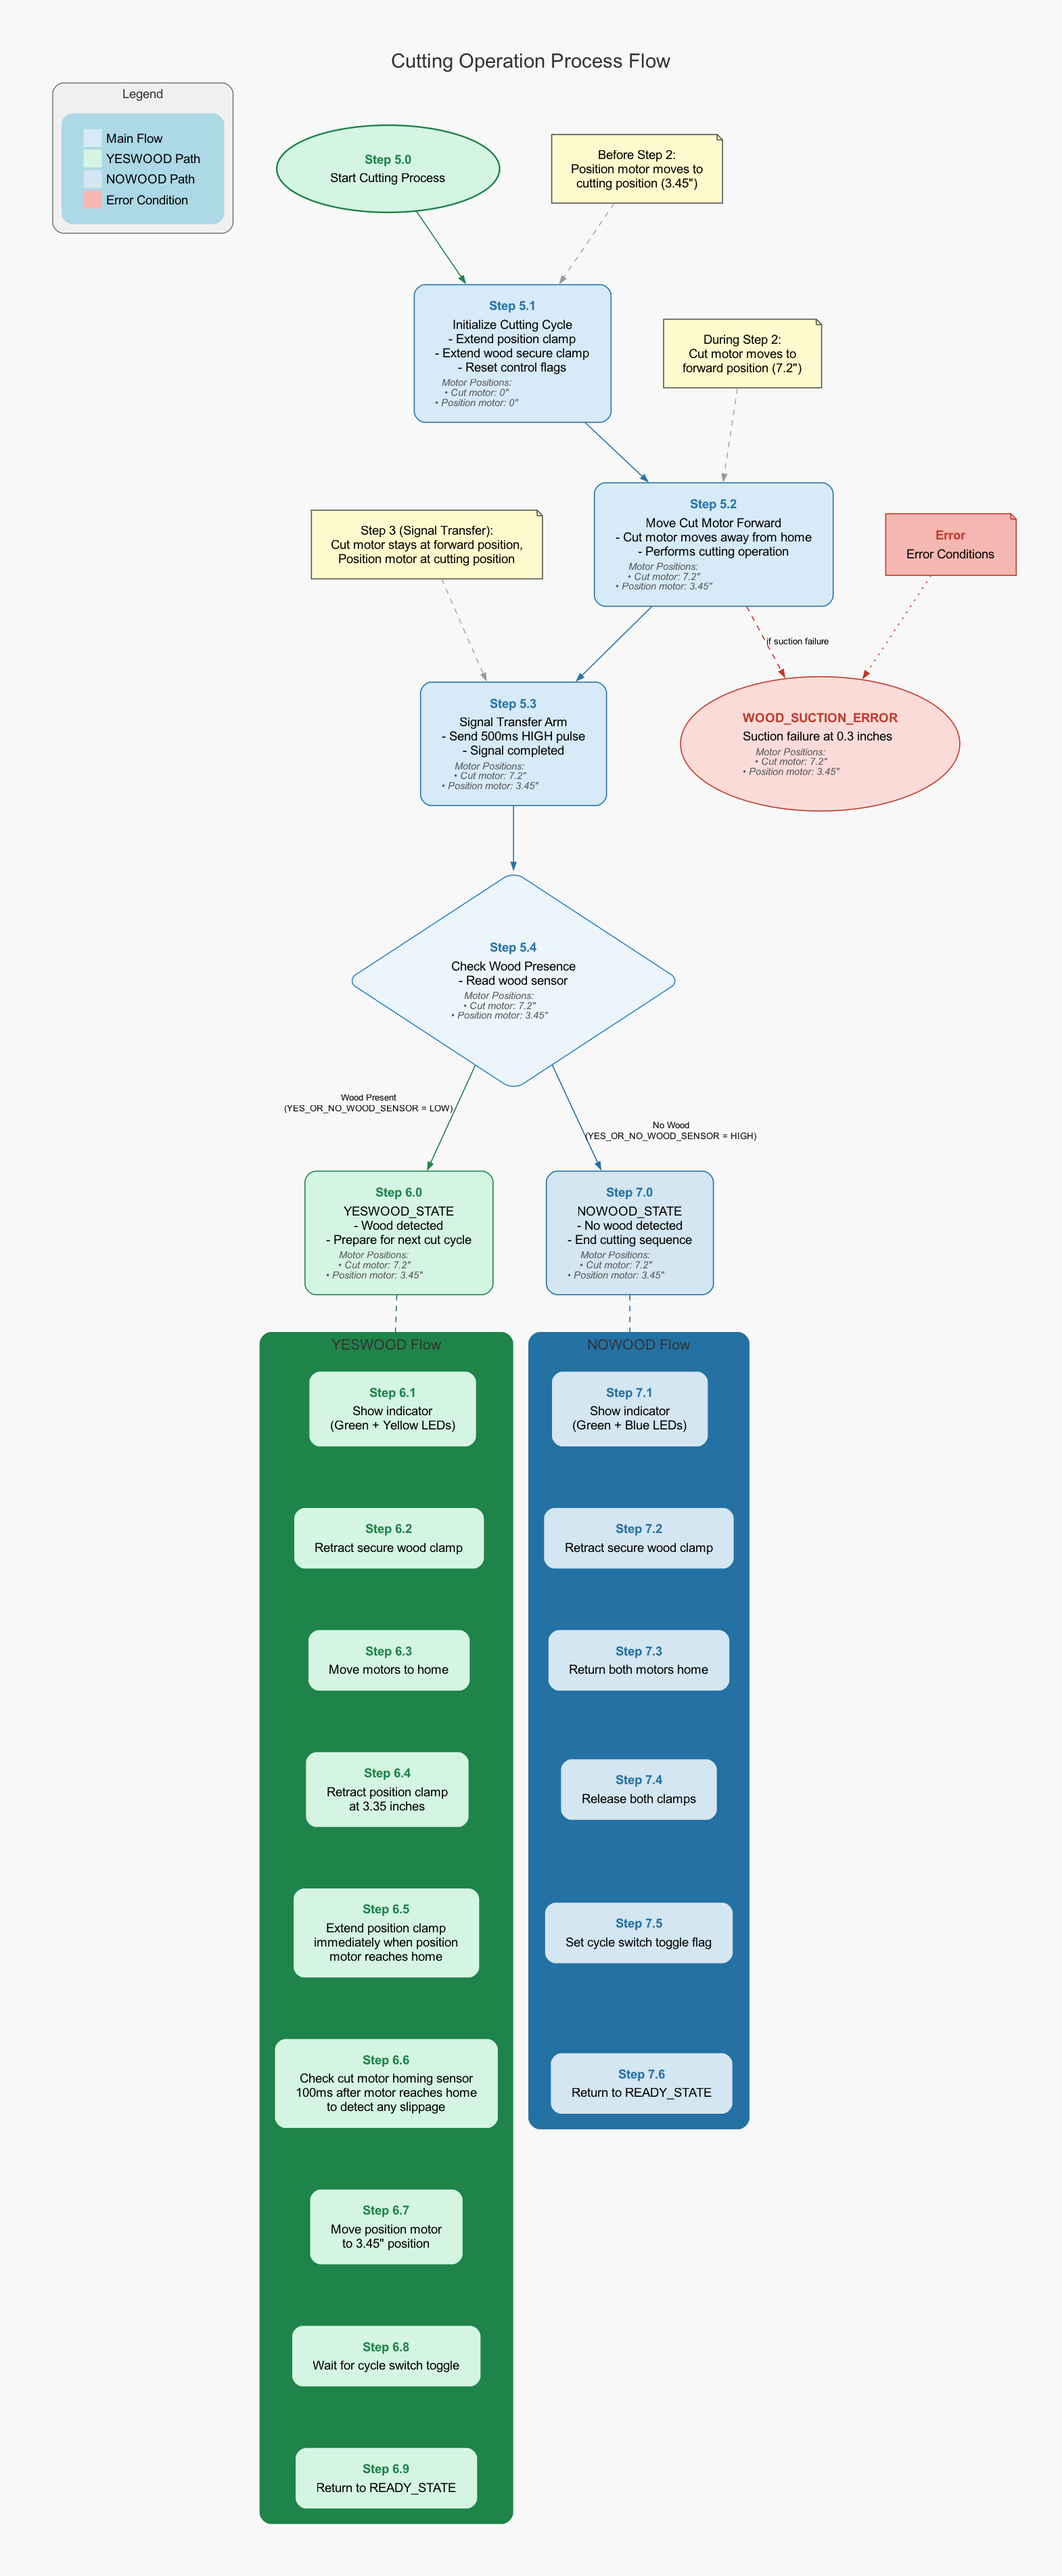
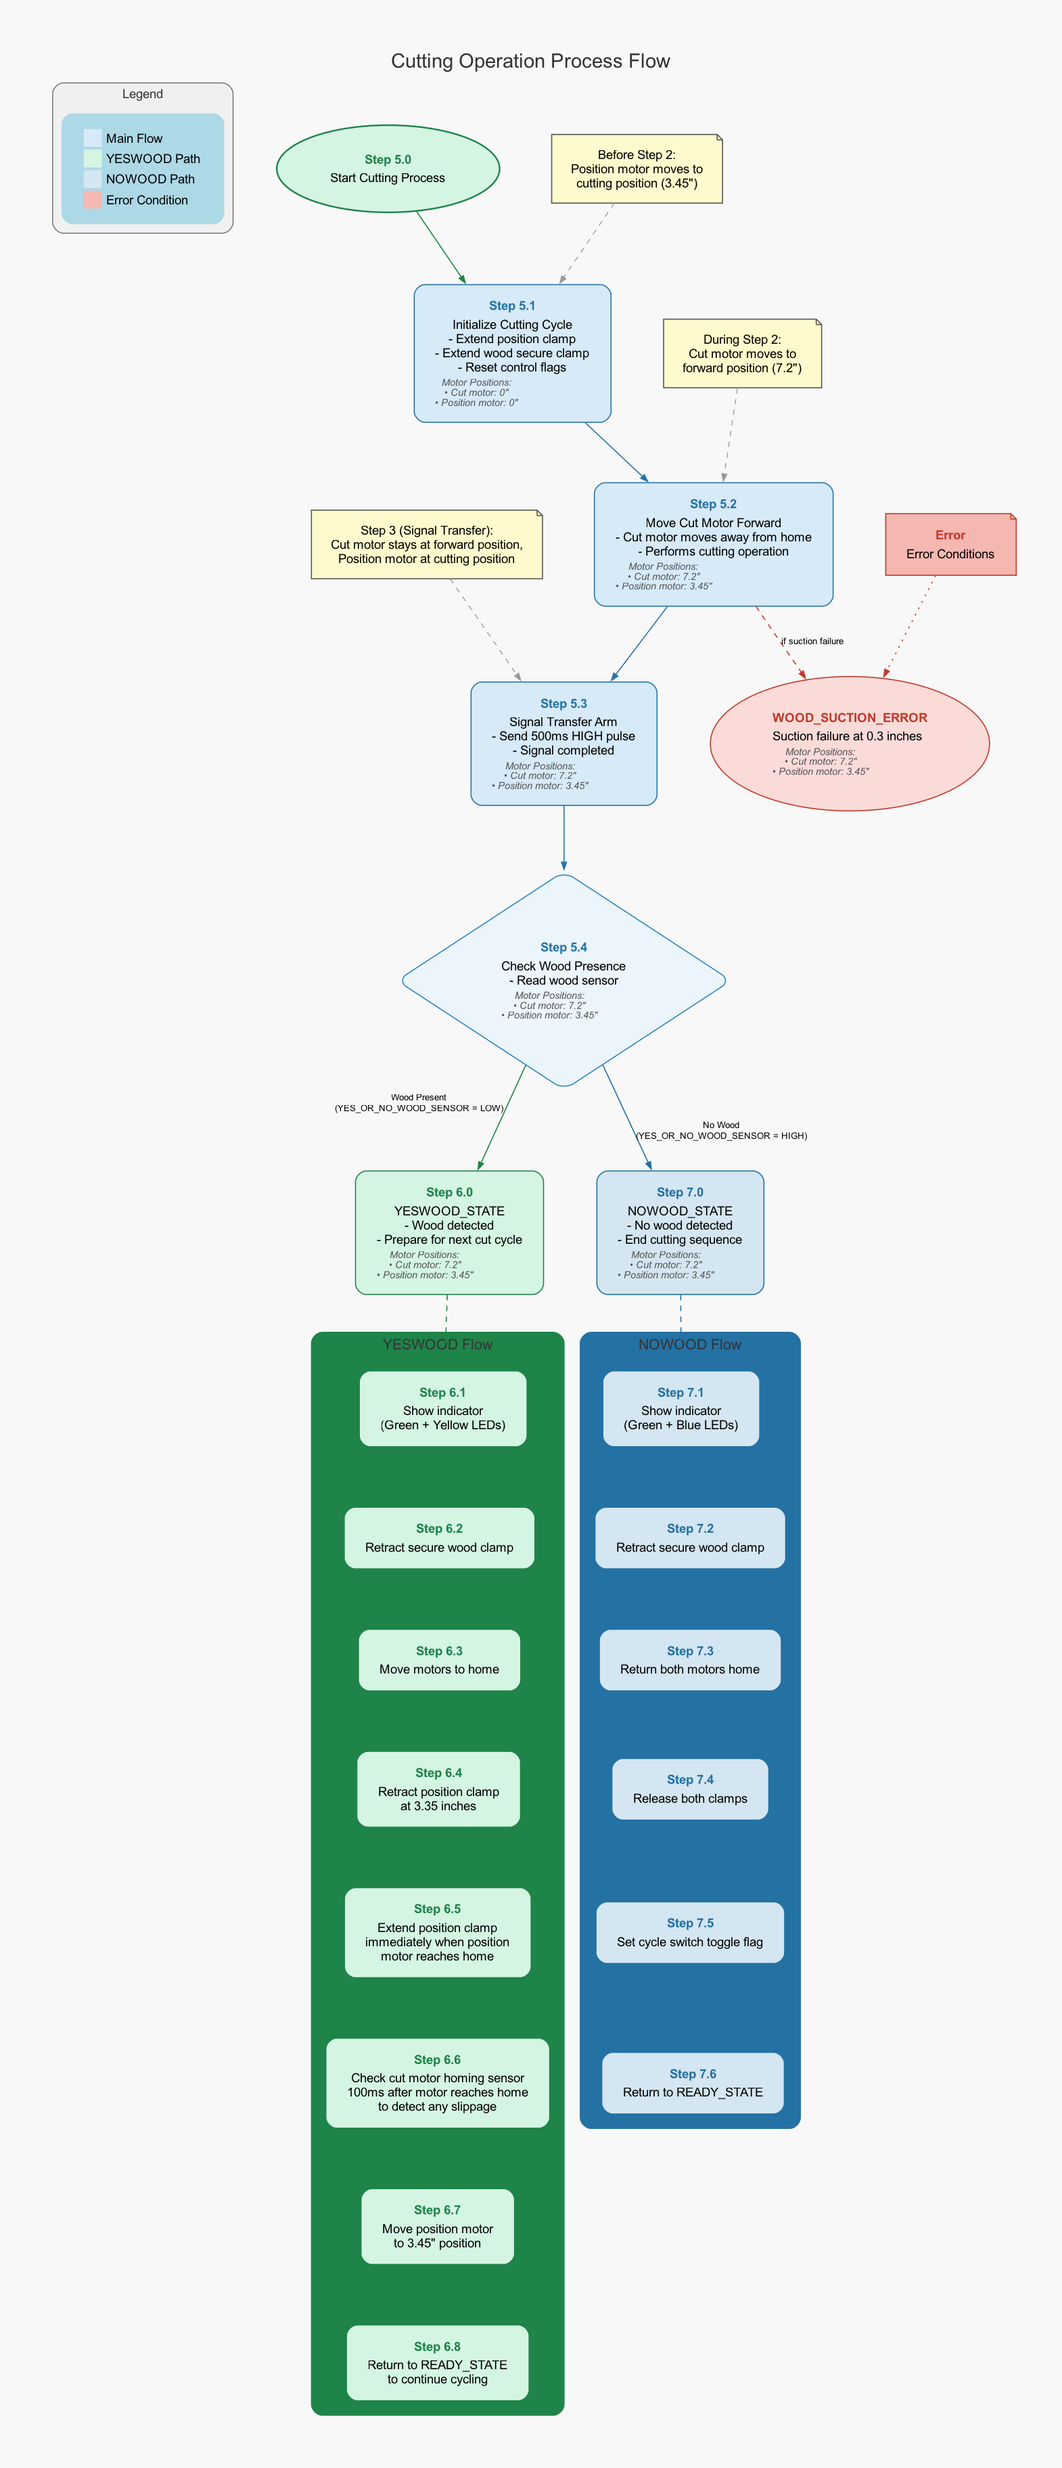
Updated YESWOOD state to allow continuous operation without cycle switch toggle, added contrast comments to NOWOOD state

Changed region(s): [[0.2185, 0.3718, 0.7803, 0.9915], [0.2497, 0.0, 0.9675, 0.3408], [0.0624, 0.031, 0.2185, 0.093]]

diff --git a/src/operations/12_YesWood.cpp b/src/operations/12_YesWood.cpp
@@ -3,7 +3,6 @@
 #include "../../include/operations/11_Cutting.h"
 
 // Global variables for this module
-static unsigned long yesWoodWaitTime = 0;
 static unsigned long cutMotorHomeCheckTimer = 0;
 
 // Handle yes wood state - indicates wood is present after cutting
@@ -83,7 +82,7 @@ void handleYesWoodState() {
         hasTransferArmBeenSignaled = false;
         hasSuctionBeenChecked = false;
         
-        // Ensure cycle switch toggle is not needed - allows continuous cycling
+        // Ensure cycle switch toggle is NOT needed - allows continuous cycling
         needCycleSwitchToggle = false;
         
         // Return to ready state automatically with no delay
@@ -91,6 +90,14 @@ void handleYesWoodState() {
       }
       break;
   }
+}
+
+// Function to set LEDs for the YESWOOD state - used by LED control module
+void setYesWoodPattern() {
+  setYellowLed(true);
+  setGreenLed(true);
+  setBlueLed(false);
+  setRedLed(false);
 }
 
 // Show yes wood indicator (Yellow LED only)

diff --git a/src/operations/13_NoWood.cpp b/src/operations/13_NoWood.cpp
@@ -45,7 +45,7 @@ void handleNoWoodState() {
       break;
       
     case 4: // Step 7.5: Set cycle switch toggle flag
-      // Set the flag that requires cycle switch to be toggled
+      // UNLIKE YESWOOD, this state REQUIRES cycle switch to be toggled
       needCycleSwitchToggle = true;
       prevCycleSwitchState = readCycleSwitch();
       subState = 5;
